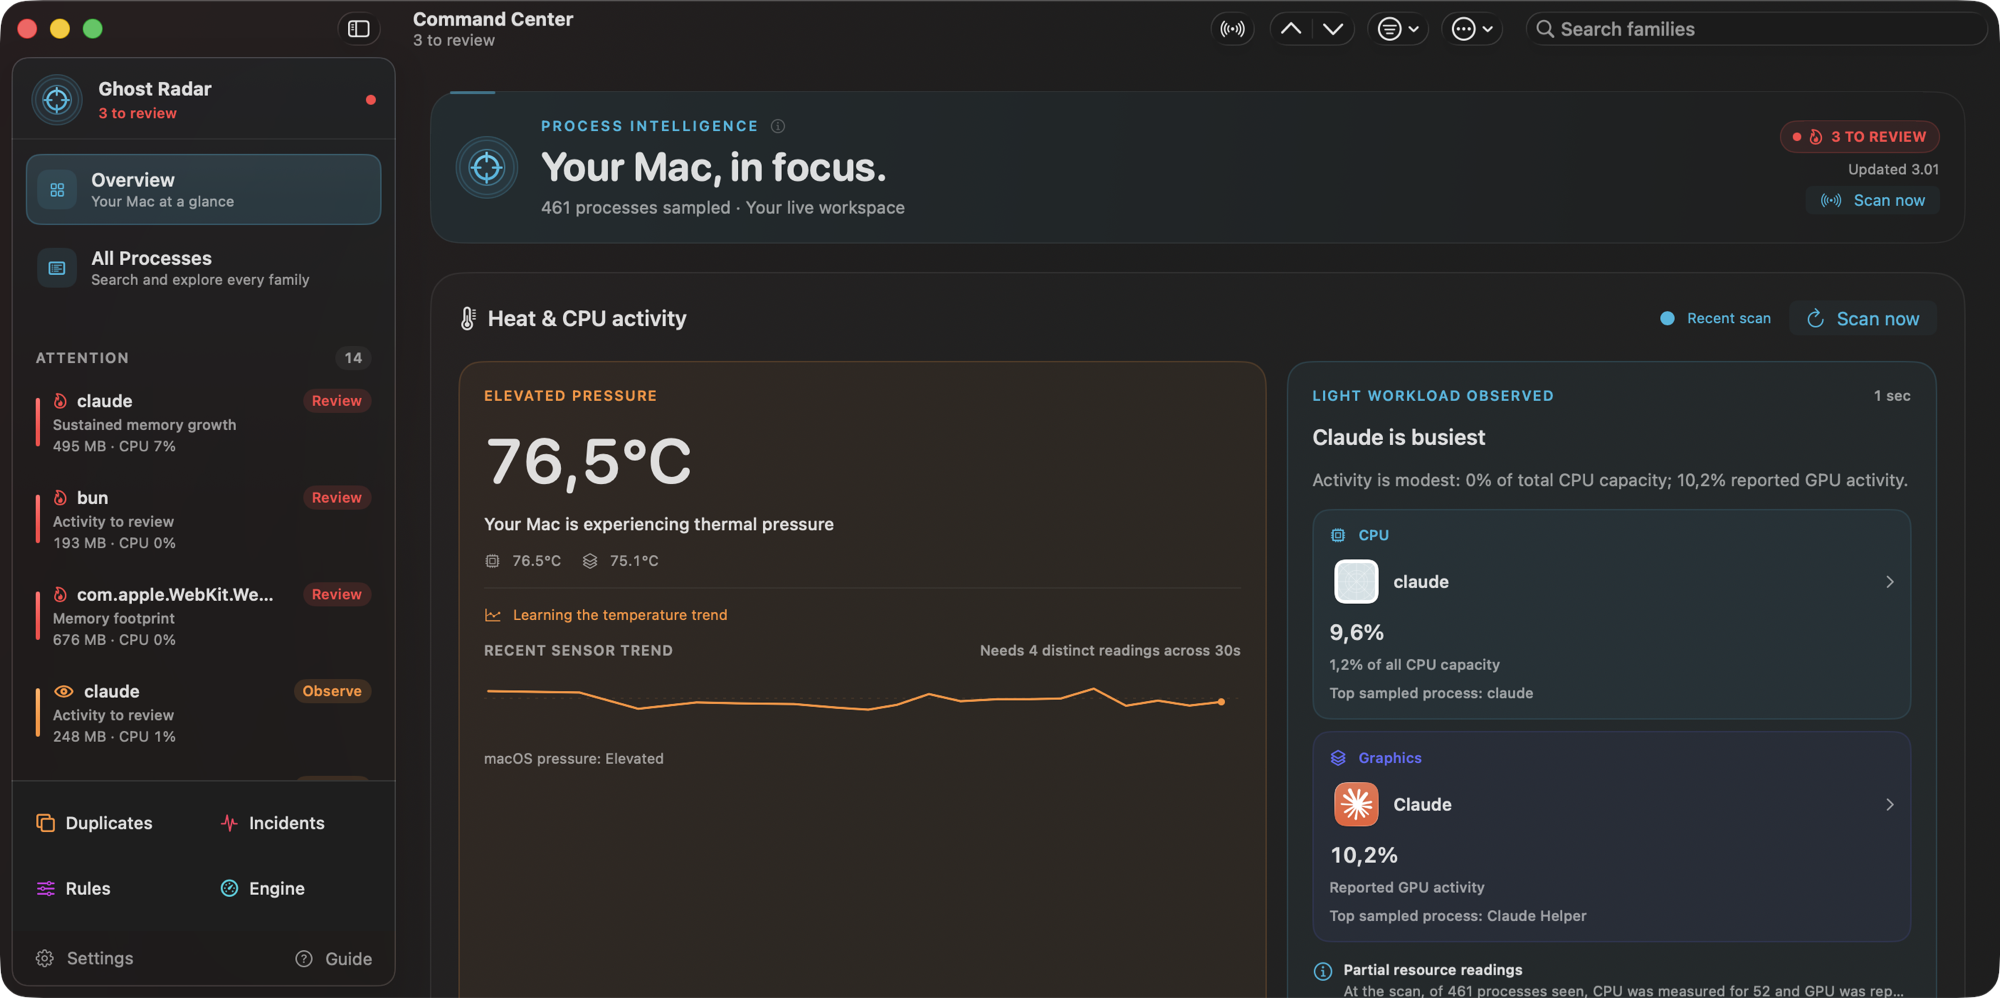
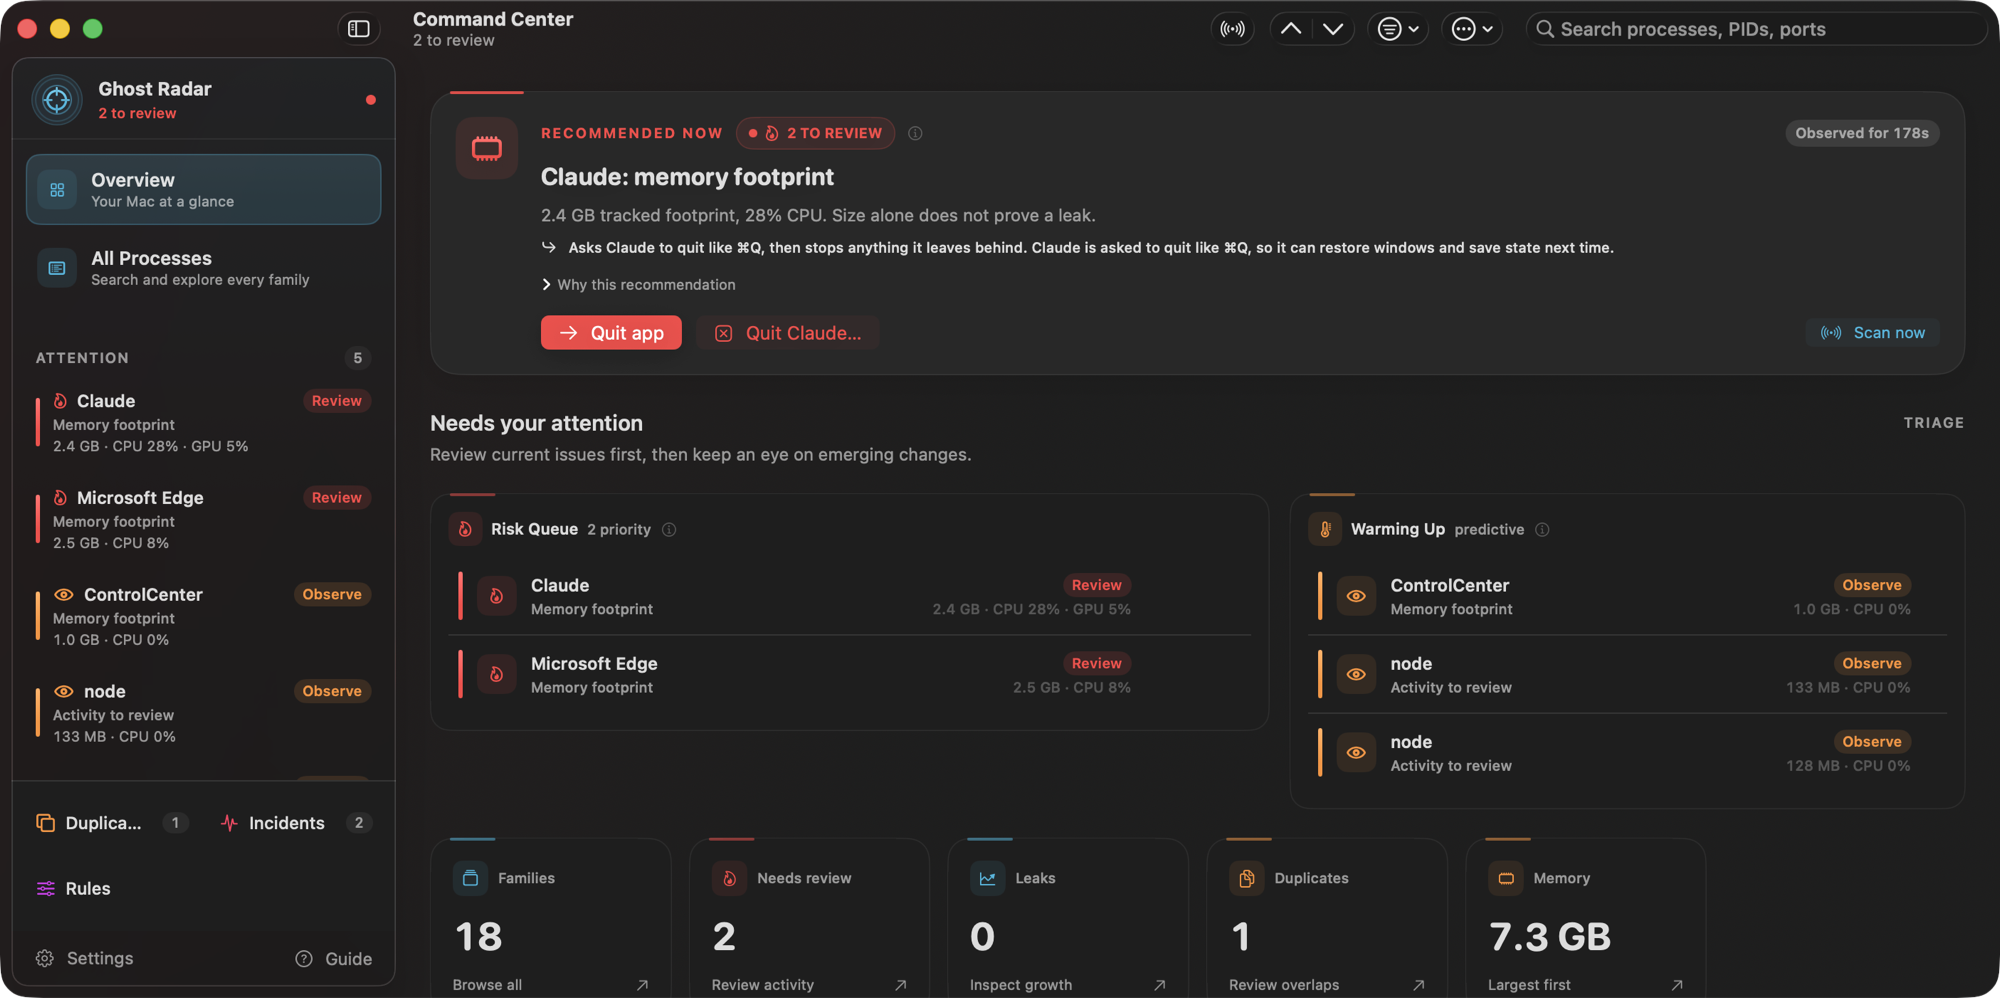
Release 2.0.0
Bump the app to 2.0.0 (build 2), date the changelog, and replace the
README screenshot with the verdict-first Overview.

diff --git a/CHANGELOG.md b/CHANGELOG.md
@@ -2,7 +2,9 @@
 
 All notable changes to Ghost Process Sniper are documented here. The project follows [Semantic Versioning](https://semver.org).
 
-## [Unreleased]
+## [2.0.0] — 2026-09-26
+
+A verdict-first redesign with risk-aware stopping, search across every running process, and a faster, lighter radar. Existing history and settings are migrated on first launch; a copy of the database is kept before any upgrade that drops tables.
 
 ### Search
 - Search reaches every running process, not only tracked families. Apps outside the watch scope appear under *Other running processes* with memory, CPU, PID, and copy/reveal actions.
@@ -160,4 +162,5 @@ First public release.
 - App bundles are staged and signed outside the checkout, so packaging works when the repository lives in an iCloud-synced Desktop or Documents folder.
 - Cleanup tests no longer crash when the repository is checked out in an iCloud-synced folder; fixtures now live in `~/Library/Caches`.
 
+[2.0.0]: https://github.com/mikkel32/ghost-process-sniper/releases/tag/v2.0.0
 [1.0.0]: https://github.com/mikkel32/ghost-process-sniper/releases/tag/v1.0.0

diff --git a/README.md b/README.md
@@ -22,7 +22,7 @@
 </p>
 
 <p align="center">
-  <img src="Docs/Assets/screenshot-overview.png" alt="Ghost Process Sniper console: live CPU and GPU temperature, the app doing the most work, and a list of processes that need attention">
+  <img src="Docs/Assets/screenshot-overview.png" alt="Ghost Process Sniper Overview: one recommended action with a Quit button, a risk queue, a warming-up queue, and summary cards for families, leaks, duplicates, and memory">
 </p>
 
 Dev servers that never shut down. Electron helpers that quietly grow by 50 MB a minute. Three copies of the same watcher from terminals you closed yesterday. A fan that spins up and no idea why.

diff --git a/Docs/Releasing.md b/Docs/Releasing.md
@@ -48,7 +48,7 @@ This signs with the hardened runtime and a secure timestamp, notarizes and stapl
 With the [GitHub CLI](https://cli.github.com):
 
 ```sh
-VERSION=1.0.0
+VERSION=2.0.0
 git tag -a "v$VERSION" -m "Ghost Process Sniper $VERSION"
 git push origin main "v$VERSION"
 gh release create "v$VERSION" \
